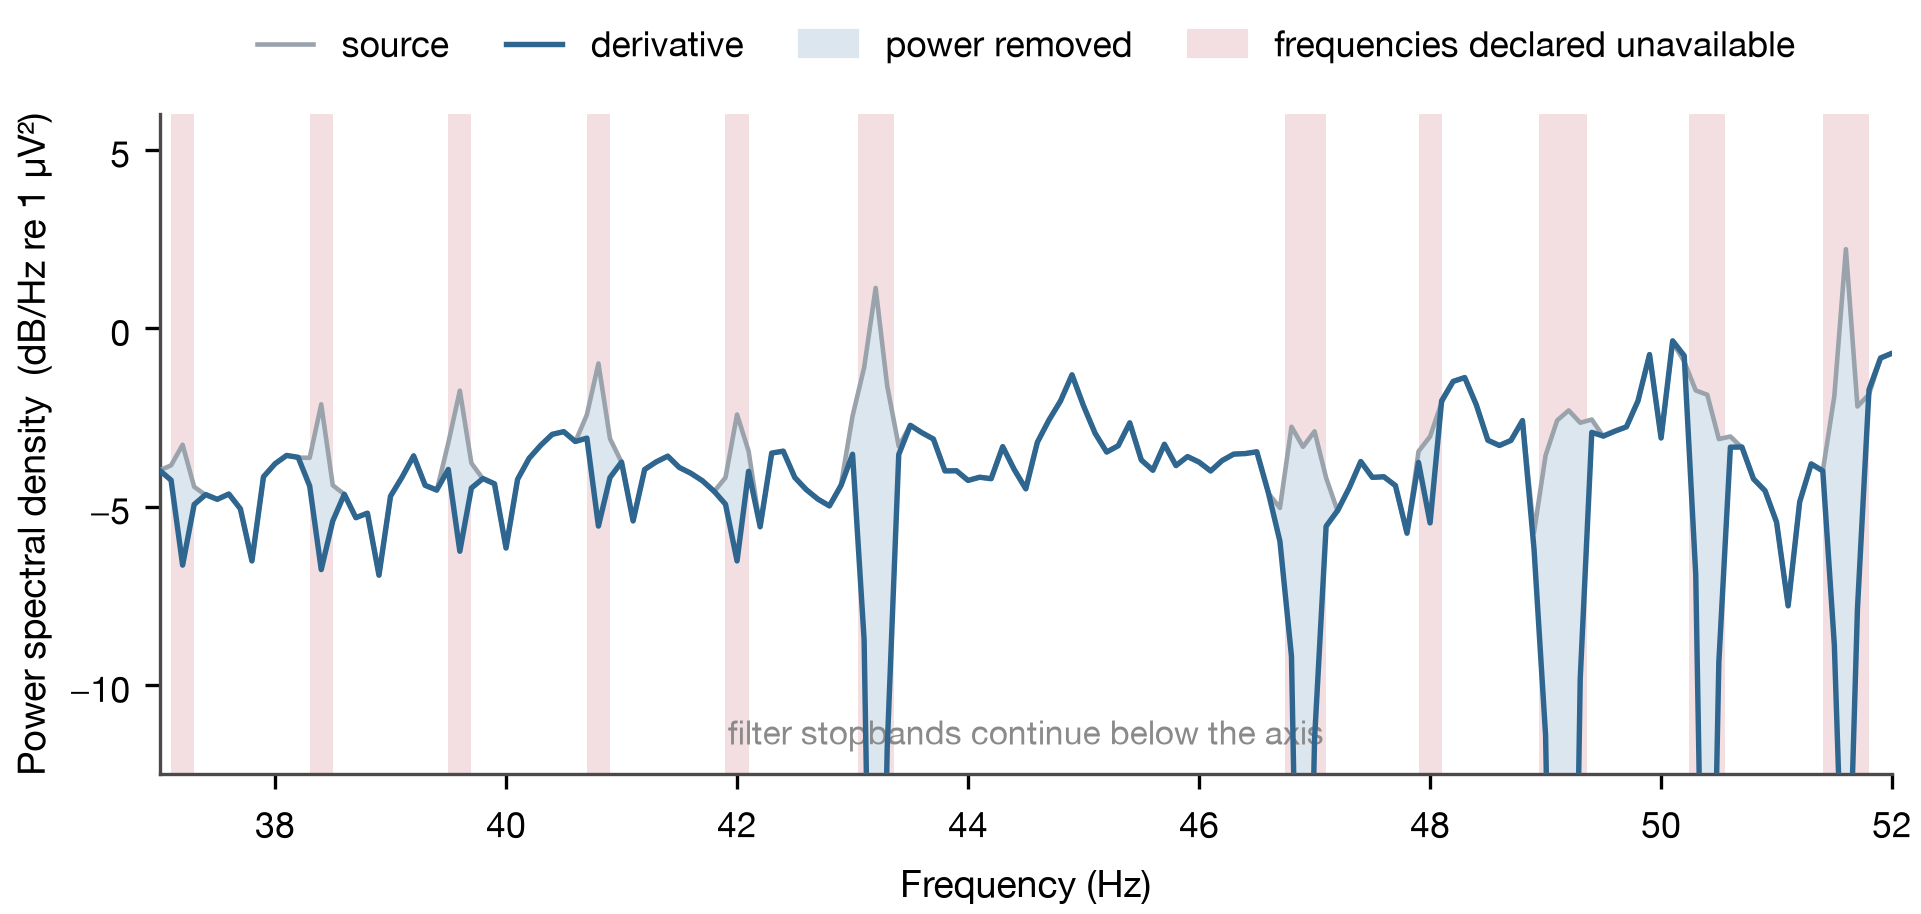
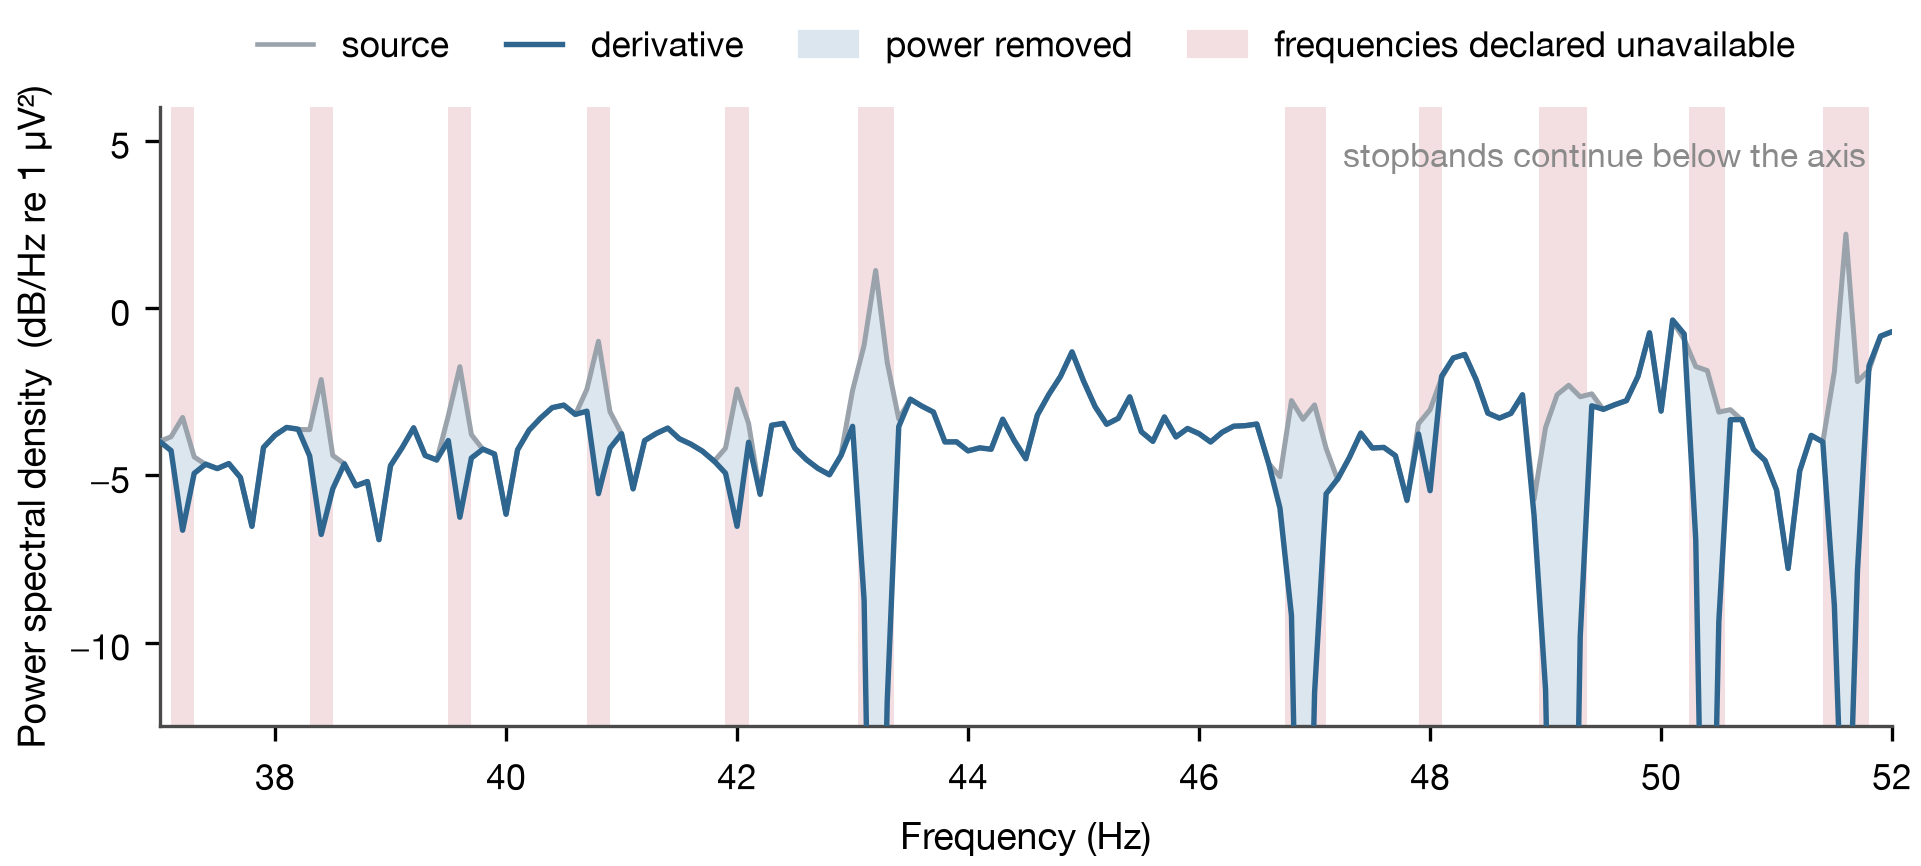
Clarify the removal figure and name the recording it shows

diff --git a/studies/2026-08-19-arm-comparison/make_readme_figure.py b/studies/2026-08-19-arm-comparison/make_readme_figure.py
@@ -40,7 +40,7 @@ for lo, hi in sorted(filtered):
     else:
         merged.append([lo, hi])
 
-fig, ax = plt.subplots(figsize=(165 * MM, 80 * MM))
+fig, ax = plt.subplots(figsize=(165 * MM, 76 * MM))
 ymin, ymax = -12.5, 6.0
 
 for lo, hi in merged:
@@ -48,7 +48,7 @@ for lo, hi in merged:
         ax.axvspan(max(lo, LO), min(hi, HI), ymin=0, ymax=1, color=LOST, lw=0, zorder=1)
 ax.fill_between(f, final, raw, where=raw >= final, color=REMOVED, lw=0,
                 interpolate=True, zorder=2)
-ax.plot(f, raw, color=SOURCE, lw=1.1, zorder=3, solid_capstyle="round")
+ax.plot(f, raw, color=SOURCE, lw=1.2, zorder=3, solid_capstyle="round")
 ax.plot(f, final, color=DERIV, lw=1.3, zorder=4, solid_capstyle="round")
 
 ax.set_xlim(LO, HI); ax.set_ylim(ymin, ymax)
@@ -65,8 +65,9 @@ handles = [
 ]
 ax.legend(handles=handles, loc="upper center", bbox_to_anchor=(0.5, 1.16), ncol=4,
           frameon=False, handlelength=1.6, columnspacing=1.6, borderaxespad=0)
-ax.text(0.5, 0.045, "filter stopbands continue below the axis", transform=ax.transAxes,
-        ha="center", fontsize=8, color="#8A8A8A")
+ax.text(0.985, 0.955, "stopbands continue below the axis", transform=ax.transAxes,
+        ha="right", va="top", fontsize=8, color="#8A8A8A")
+
 fig.tight_layout(pad=0.5)
 fig.savefig(sys.argv[2], bbox_inches="tight", pad_inches=0.03)
 print(f"wrote {sys.argv[2]}")

diff --git a/README.md b/README.md
@@ -211,13 +211,13 @@ scanner-comb fits are both null.
 
 ![Power spectral density before and after removal](docs/decomb_psd.png)
 
-**What the pipeline does.** Channel-mean power spectral density of one recording over a 15 Hz
-window, 0.1 Hz Welch bins from 10 s segments. Blue shading is the power removed. Pink bands
-are the frequencies the manifest declares unavailable for inference; their 1.2 Hz spacing is
-the comb. A narrow band is a subtracted line, which costs two Fourier bins of the fit window
-on each side; a wide band is a filter stopband and its transitions, where the spectrum is
-emptied and the trace leaves the axis. Removal is evidence-bounded, so untouched frequencies
-between the bands are bit-identical to the source.
+**What the pipeline does.** Channel-mean power spectral density of sub-0010 run 1, shown over
+37 to 52 Hz of the 1 to 100 Hz analysed range, in 0.1 Hz Welch bins from 10 s segments. Blue
+shading is the power removed. Pink bands are the frequencies the manifest declares unavailable
+for inference, and their regular 1.2 Hz spacing is the comb. A narrow band is a subtracted
+line, costing two Fourier bins of the fit window on each side; a wide band is a filter
+stopband with its transitions, where the spectrum is emptied and the trace leaves the axis.
+Removal is bounded by the evidence, so the frequencies between the bands are unchanged.
 
 Subtraction is not free. It removes whatever sits at the fitted frequency, neural activity
 included, so each subtracted frequency declares an unavailable interval of two Fourier bins
